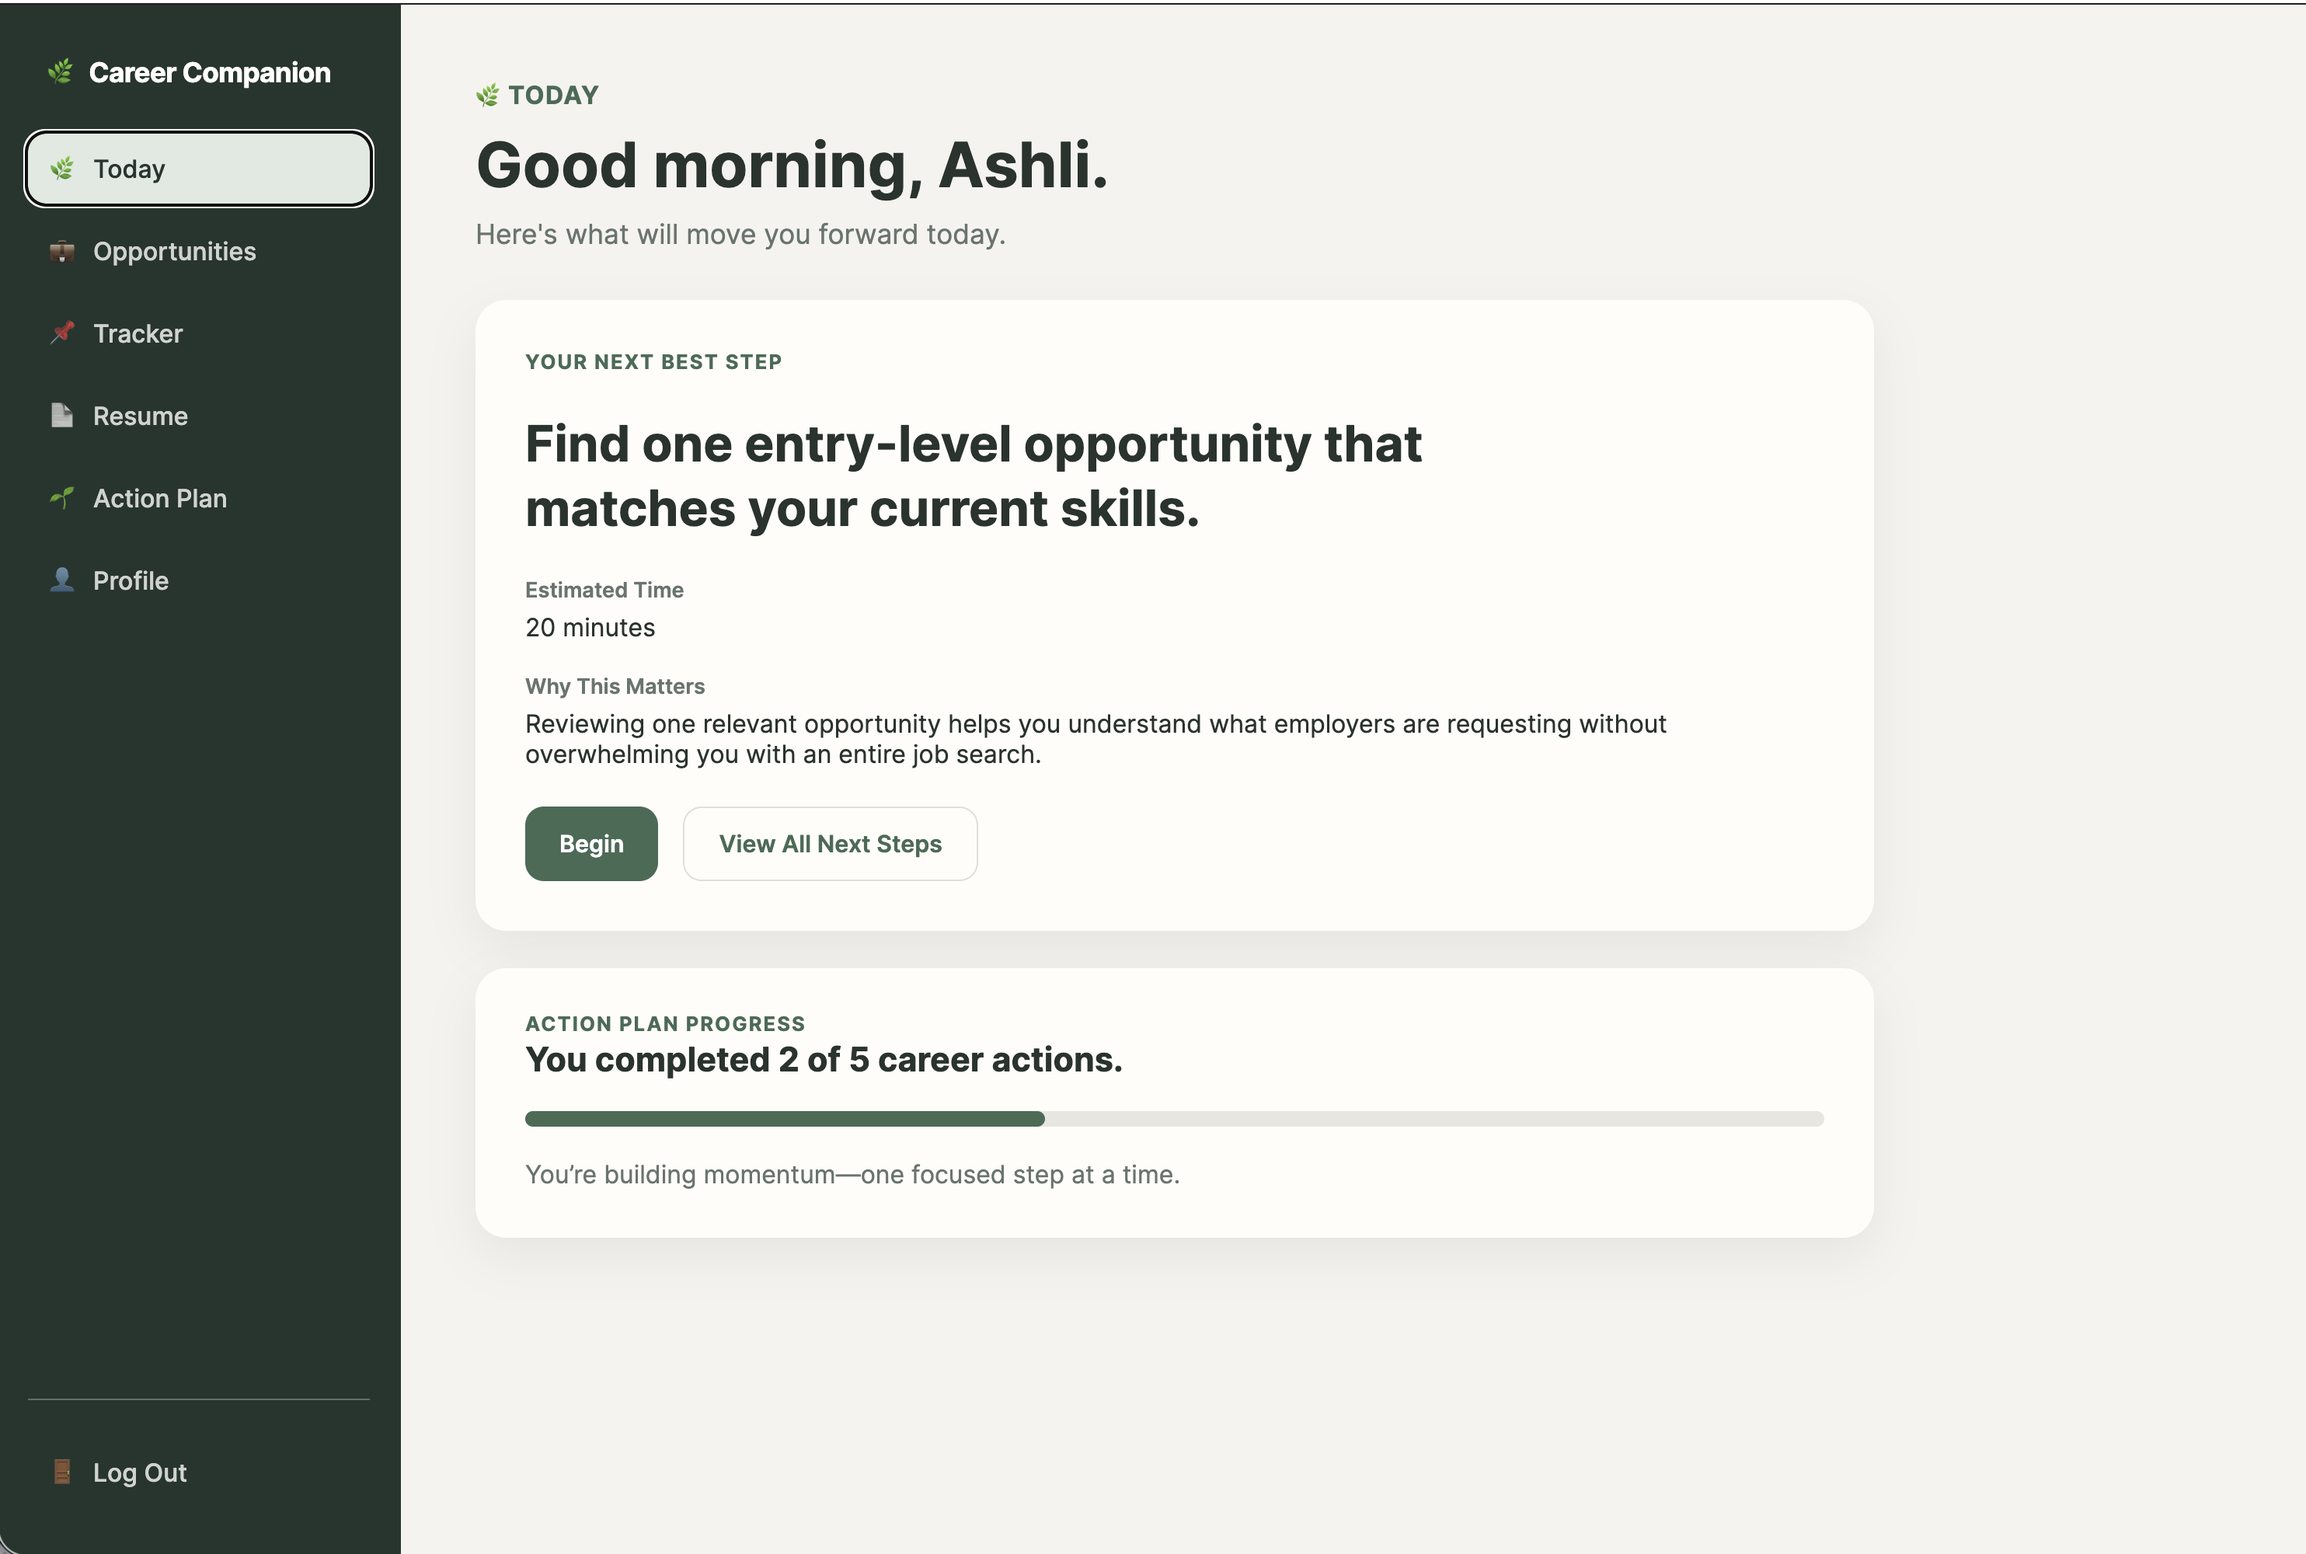
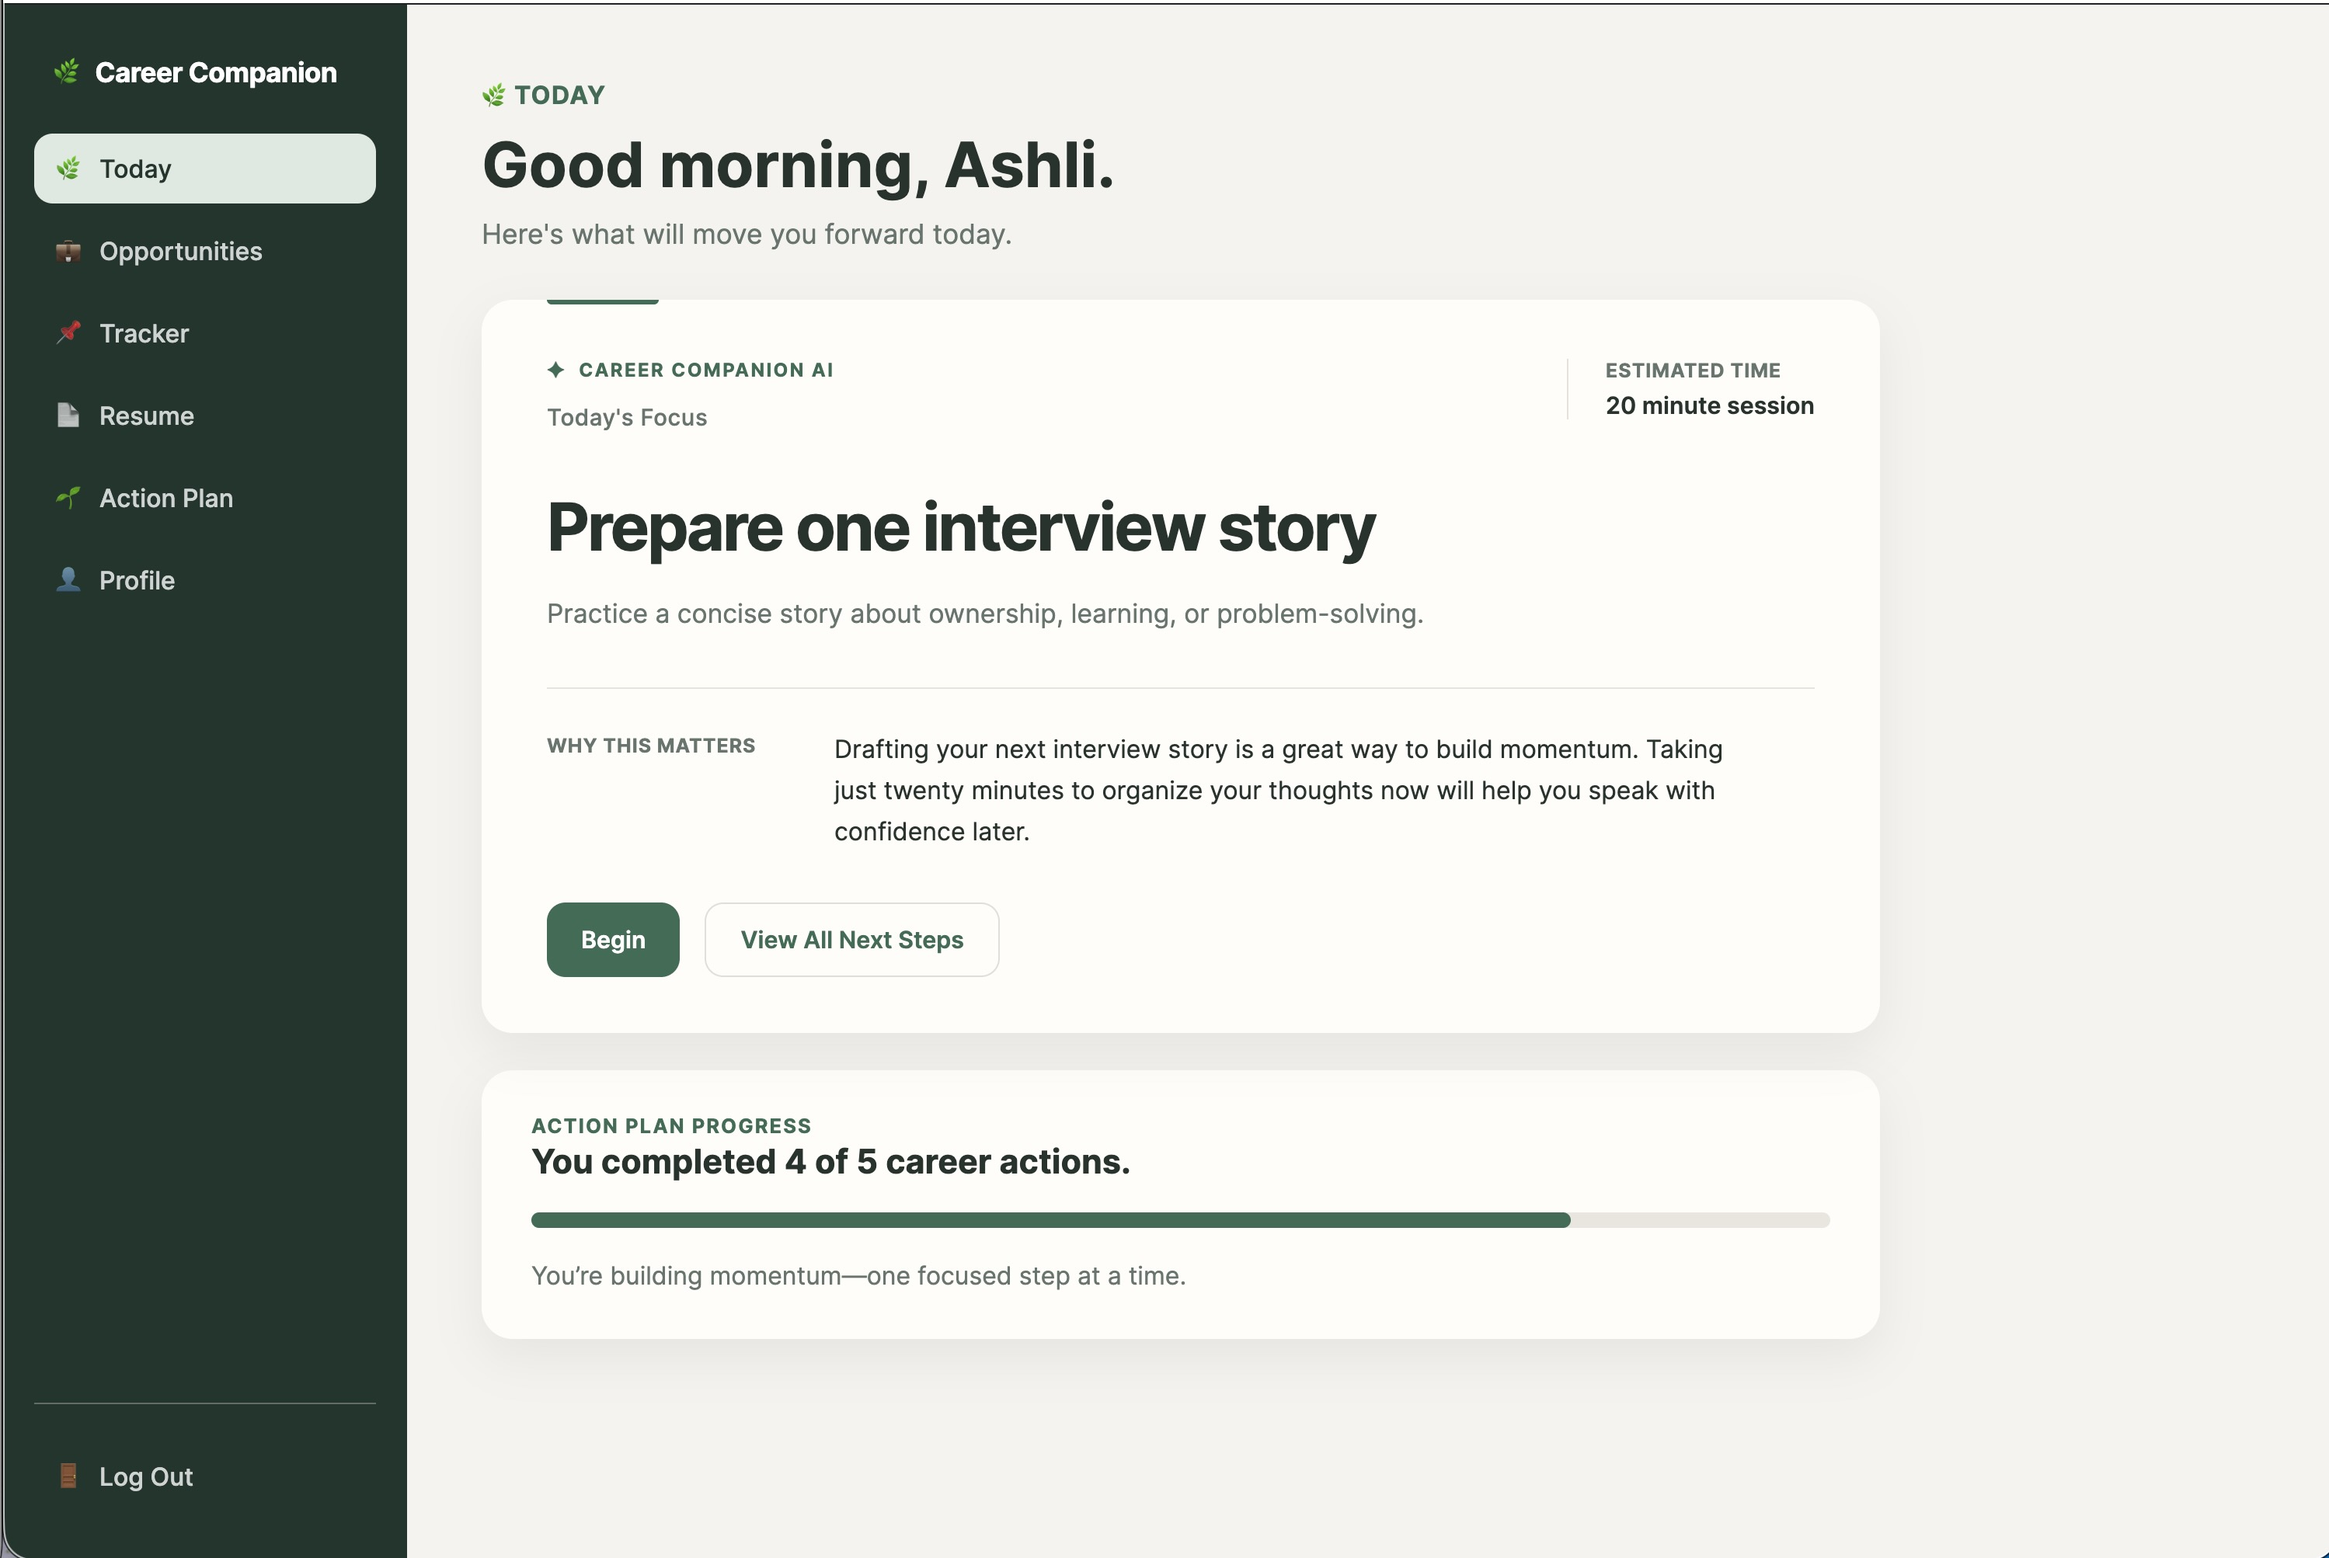
docs: update README and Project 3 screenshots

diff --git a/README.md b/README.md
@@ -160,6 +160,18 @@ This creates recommendations that are:
 
 ---
 
+## Guided Session
+
+![Guided Session](screenshots/guided-session.png)
+
+---
+
+## Session Complete
+
+![Session Complete](screenshots/session-complete.png)
+
+---
+
 ## Opportunities Search
 
 ![Opportunities](screenshots/opportunities-search.png)
